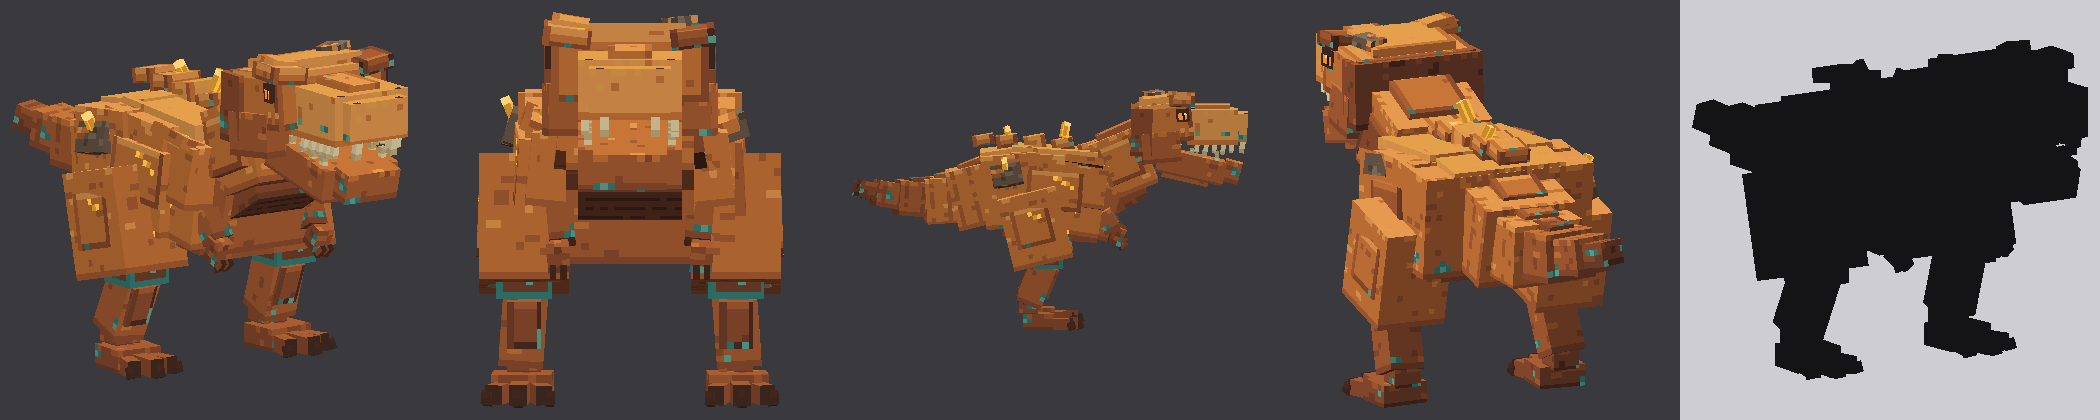
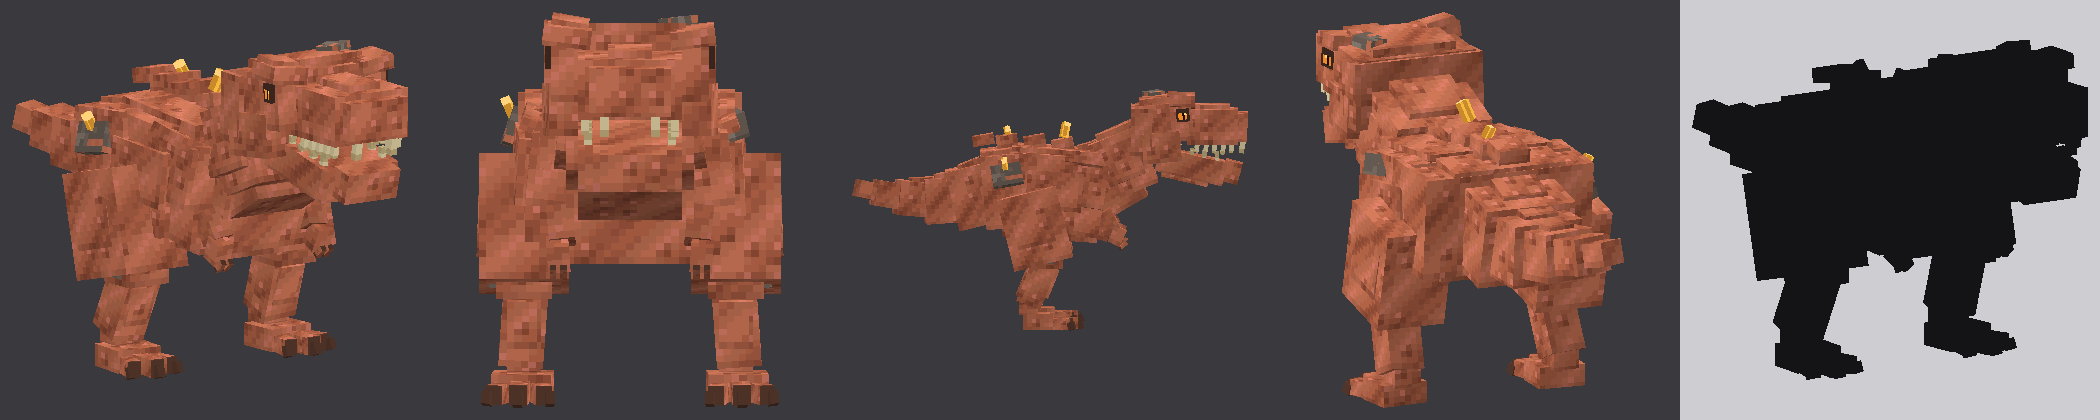
Copper T-Rex: texture from the vanilla copper block

Changed region(s): [[0.0, 0.031, 0.3714, 0.9595], [0.4024, 0.031, 0.7738, 0.9905]]

diff --git a/FluxDungeons/assets/monstres/trex_cuivre.py b/FluxDungeons/assets/monstres/trex_cuivre.py
@@ -3,14 +3,16 @@
 
 A real Tyrannosaurus whose anatomy is copper grown around a fossil, found deep in a mine: big skull of copper plates,
 long jaw with ivory teeth, thick neck, massive body leaning forward over two long and powerful hind legs, tiny arms,
-long tail that dips at its base then rises as it thins. Copper dominates (warm, light, aged, dark), turquoise patina
-stays secondary (joints, between plates, end of the tail, one side of the skull), a few rocks with copper ore grown
-into the body and a few small amber crystals on the back and shoulder (emissive, like the eyes).
+long tail that dips at its base then rises as it thins.
+Texture revised on 2026-11-10 at the owner's request: the copper is the vanilla Block of Copper (unoxidised), its own
+pixels tiled on every copper part, soft and low-contrast; no patina, no gold, no outlines, no painted reflections (the
+light is the game's face shading). Plates differ only by geometry and a slightly darker lower edge. Kept apart: a few
+grey-brown rocks, ivory teeth, dark claws, orange eyes and three tiny amber crystals (both emissive).
 
 Built like the two references (Colosse d'Abime, the rock turtle, and Loutre des Marees): a few dozen volumes of
-different sizes, overlapped and tilted for the silhouette; plates, patina, cracks and claws are painted (1 texel per
+different sizes, overlapped and tilted for the silhouette; plates and claws are painted (1 texel per
 unit, like a 16 x 16 block), never built from tiny cubes. Details on purpose asymmetric (bigger plate over the right
-eye, patina on the left of the skull, different mineral marks on each side of the snout); the anatomy stays symmetric.
+eye, rock on the left of the skull); the anatomy stays symmetric.
 
 Pose baked into the cubes, bones at the joints for a future animation; no animation here.
 SCALE sets the overall size at once (parts are drawn at their brief size, 16 units = 1 block).
@@ -37,193 +39,90 @@ def pal(*c):
     return [hx(x) for x in c]
 
 
-# --------------------------------------------------------------------------- brief palette (dark -> light)
-COPPER = pal("#4F2C21", "#713F2B", "#8C4C2E", "#A95D32", "#C87538", "#E69A50", "#E5A04B")
-OX = pal("#347D75", "#58A995")
-ROCK = pal("#3E322A", "#554438", "#6B5849", "#82705D")
-AMBER = pal("#C98A2A", "#F5B942", "#FFD47A")
+# --------------------------------------------------------------------------- vanilla Block of Copper
+# The copper IS the vanilla block (unoxidised Block of Copper, 16 x 16): its 8 colours and the inside of its texture
+# (14 x 14, without the light/dark border that would draw a grid of blocks), tiled at 1 texel per unit, so one pixel
+# of the T-Rex is one pixel of the block. Each face starts at a random offset: no two faces show the same pattern.
+CU = pal("#C87456", "#C26B4C", "#D67B5B", "#B26247", "#E3826C", "#9A5038", "#A75A40", "#904931")
+CU_TILE = (
+    "00110024222113", "04300242221433", "13502420211353", "10022200116631", "00222001165613", "02420011656133",
+    "24200116561130", "42001365611300", "20013366111002", "00133631110024", "01333311300242", "14363113002430",
+    "33531330022351", "65313300222011",
+)
+ROCK = pal("#5F544C", "#6E6259", "#7D7066", "#8C8075")          # moderate grey-brown stone
+AMBER = pal("#C98A2A", "#F5B942", "#FFD47A")                     # the three small crystals only
 TOOTH, TOOTH_SHADE = hx("#E5D4A6"), hx("#C4B07E")
-CLAW = hx("#38251D")
+CLAW = hx("#5A3A2E")
 EYE_RIM, IRIS, GLINT, PUPIL = hx("#38251D"), hx("#F18A24"), hx("#FFD47A"), hx("#170F0A")
 
-# light from above, a little from the front: tone shift per face
-SIDE = {"up": 1, "north": 0, "east": 0, "west": 0, "south": -1, "down": -2}
+
+def shade(c, k):
+    return tuple(max(0, min(255, round(v * k))) for v in c)
 
 
-def speckle(px, r, n, colour):
-    h, w = len(px), len(px[0])
-    for _ in range(n):
-        x, y = r.randrange(w), r.randrange(h)
-        px[y][x] = colour
-        if r.random() < 0.35 and x + 1 < w:          # two-pixel marks read better from afar
-            px[y][x + 1] = colour
+def cu(w, h, r, k=1.0):
+    """The vanilla copper surface, from a random offset of the tile, uniformly darkened by k (never below 0.88:
+    a part in shadow stays copper)."""
+    ox, oy = r.randrange(14), r.randrange(14)
+    return [[shade(CU[int(CU_TILE[(y + oy) % 14][(x + ox) % 14])], k) for x in range(w)] for y in range(h)]
 
 
-def patina(px, r, n, rows=None):
-    """Small turquoise clusters, kept to the given rows (bottom edge by default: where water ran)."""
-    h, w = len(px), len(px[0])
-    rows = rows or range(max(0, h - 3), h)
-    rows = list(rows)
-    for _ in range(n):
-        x, y = r.randrange(w), r.choice(rows)
-        px[y][x] = OX[1]
-        for dx, dy in ((1, 0), (0, -1), (-1, 0)):
-            if 0 <= x + dx < w and 0 <= y + dy < h and r.random() < 0.45:
-                px[y + dy][x + dx] = OX[0]
-
-
-def crack(px, r):
-    """Thin amber crack between plates: a broken diagonal line of 3 to 5 pixels."""
-    h, w = len(px), len(px[0])
-    if w < 6 or h < 5:
-        return
-    x, y = r.randrange(1, w - 4), r.randrange(1, h - 3)
-    for k in range(r.randrange(3, 6)):
-        if 0 <= x < w and 0 <= y < h:
-            px[y][x] = AMBER[1] if k % 2 == 0 else AMBER[0]
-        x += 1
-        y += r.choice((0, 1, 1))
-
-
-def ore(px, r, n):
-    """Copper ore spots in the rock, like the block: a light pixel next to a warm one."""
-    h, w = len(px), len(px[0])
-    for _ in range(n):
-        x, y = r.randrange(w), r.randrange(h)
-        px[y][x] = COPPER[5]
-        if x + 1 < w:
-            px[y][x + 1] = COPPER[4]
-        if y + 1 < h:
-            px[y + 1][x] = COPPER[3]
+def occlude(px, rows=1, k=0.92):
+    """Light ambient occlusion on the bottom rows of a side face (where it meets the part below)."""
+    h = len(px)
+    for y in range(max(0, h - rows), h):
+        px[y] = [shade(c, k) for c in px[y]]
 
 
 # --------------------------------------------------------------------------- painters
-def copper(base=4, ox=0, cracks=0):
+def copper(k=1.0):
     def f(w, h, r, face):
-        """Copper hide: flat tone, hammered darker marks, lighter on top, bottom row in shadow; `ox` patina
-        clusters along the bottom of the sides, `cracks` amber cracks on the sides."""
-        b = base + SIDE[face]
-        px = [[tone(COPPER, b)] * w for _ in range(h)]
-        speckle(px, r, max(1, w * h // 22), tone(COPPER, b - 1))
-        speckle(px, r, max(1, w * h // 45), tone(COPPER, b + 1))
+        """Copper hide: the vanilla block, faint occlusion at the bottom of the sides. The light (top lighter,
+        bottom darker) is the game's face shading, not painted."""
+        px = cu(w, h, r, k * (0.96 if face == "down" else 1.0))
         if face not in ("up", "down") and h >= 4:
-            px[h - 1] = [tone(COPPER, b - 1)] * w
-            for x in range(w):
-                if r.random() < 0.3:
-                    px[0][x] = tone(COPPER, b + 1)       # top edge catching the light
-            if ox and r.random() < 0.6:
-                patina(px, r, ox * max(1, w // 14))
-            for _ in range(cracks):
-                crack(px, r)
+            occlude(px)
         return px
     return f
 
 
-def plate(base=4, ox=1, cracks=0, crystal=False):
+def plate(k=1.0):
     def f(w, h, r, face):
-        """Copper plate: darker one-pixel outline (it reads as a separate plate), light top row, patina in the
-        outline (between plates), sometimes an amber crack or an inlaid amber crystal."""
-        b = base + SIDE[face]
-        px = [[tone(COPPER, b)] * w for _ in range(h)]
-        speckle(px, r, max(1, w * h // 26), tone(COPPER, b - 1))
+        """Copper plate: the same block, its edge only suggested by a slightly darker bottom row and right column
+        (the gap under the plate), no black outline, no light border."""
+        px = cu(w, h, r, k)
         if w >= 3 and h >= 3:
-            for x in range(w):
-                px[0][x] = tone(COPPER, b + 1)
-                px[h - 1][x] = tone(COPPER, b - 2)
-            for y in range(h):
-                px[y][0] = tone(COPPER, b - 1)
-                px[y][w - 1] = tone(COPPER, b - 2)
-            edge = [(x, h - 1) for x in range(w)] + [(w - 1, y) for y in range(h // 2, h)]
-            for _ in range(ox * max(1, (w + h) // 14)):
-                x, y = r.choice(edge)
-                px[y][x] = OX[r.randrange(2)]
-        for _ in range(cracks):
-            crack(px, r)
-        if crystal and face == "up" and w >= 4 and h >= 4:
-            x, y = w // 2 - 1, h // 2 - 1
-            px[y][x], px[y][x + 1], px[y + 1][x], px[y + 1][x + 1] = AMBER[2], AMBER[1], AMBER[1], AMBER[0]
+            px[h - 1] = [shade(c, 0.9) for c in px[h - 1]]
+            for y in range(h - 1):
+                px[y][w - 1] = shade(px[y][w - 1], 0.93)
         return px
     return f
-
-
-def belly(w, h, r, face):
-    """Belly and throat: dark copper in horizontal bands (old fossil copper), a pixel of patina here and there."""
-    b = 2 + max(-1, SIDE[face])
-    px = [[tone(COPPER, b)] * w for _ in range(h)]
-    for y in range(1, h, 3):
-        px[y] = [tone(COPPER, b - 1) if r.random() < 0.75 else px[y][x] for x in range(w)]
-    if r.random() < 0.3:
-        speckle(px, r, 1, OX[0])
-    return px
-
-
-def skull(w, h, r, face):
-    """Skull: copper plates, asymmetric details: patina patch on the left side (west), copper ore marks on the
-    right side (east), one amber crack on top."""
-    px = plate(4, ox=1)(w, h, r, face)
-    if face == "west" and w >= 6:
-        patina(px, r, 5, rows=range(h // 3, h - 1))
-    elif face == "east" and w >= 6:
-        ore(px, r, 2)
-    elif face == "up":
-        crack(px, r)
-    return px
 
 
 def snout(w, h, r, face):
-    """Snout: lighter copper, nostrils painted dark on the front, different marks on each side."""
-    px = copper(5)(w, h, r, face)
+    """Snout: the copper block, two nostrils on top of the tip in the block's darkest colour."""
+    px = copper()(w, h, r, face)
     if face == "up" and w >= 6 and h >= 3:
-        for x in (1, w - 2):                               # nostrils on top of the snout tip (seen from the side
-            px[0][x] = COPPER[0]                           # and above, never as a second pair of eyes)
-    elif face == "east":
-        patina(px, r, 2)
-    elif face == "west" and w >= 4:
-        crack(px, r)
+        for x in (1, w - 2):
+            px[0][x] = CU[5]
     return px
 
 
 def rock(ore_spots=0):
     def f(w, h, r, face):
-        """Rock grown into the copper: warm brown and grey-brown, lighter pixels for the grain, copper ore spots."""
-        b = 2 + max(-1, min(1, SIDE[face]))
-        px = [[tone(ROCK, b)] * w for _ in range(h)]
-        speckle(px, r, max(1, w * h // 8), tone(ROCK, b + 1))
-        speckle(px, r, max(1, w * h // 14), tone(ROCK, b - 1))
-        ore(px, r, ore_spots)
-        return px
-    return f
-
-
-def joint(w, h, r, face):
-    """Mineral joint: dark copper with a turquoise ring (patina gathers in the joints)."""
-    px = [[COPPER[1]] * w for _ in range(h)]
-    if w >= 3 and h >= 3:
-        for x in range(w):
-            px[0][x] = px[h - 1][x] = OX[0]
-        for y in range(h):
-            px[y][0] = px[y][w - 1] = OX[0]
-        px[h // 2][w // 2] = OX[1]
-    return px
-
-
-def tail(base=4, ox=0):
-    def f(w, h, r, face):
-        """Tail: copper with darker bands across (segments of a fossil spine), patina growing toward the end."""
-        px = copper(base, ox=ox)(w, h, r, face)
-        b = base + SIDE[face]
-        if face in ("east", "west"):
-            for x in range(1, w, 4):
-                for y in range(h):
-                    if r.random() < 0.6:
-                        px[y][x] = tone(COPPER, b - 1)
-        elif face == "up":
-            for y in range(1, h, 4):
-                for x in range(w):
-                    if r.random() < 0.6:
-                        px[y][x] = tone(COPPER, b - 1)
-        elif face == "down" and ox:
-            patina(px, r, ox * 3, rows=range(h))
+        """Stone grown into the copper: moderate grey-brown in small groups, a few copper spots of the block."""
+        px = [[ROCK[1]] * w for _ in range(h)]
+        for _ in range(max(1, w * h // 6)):
+            x, y = r.randrange(w), r.randrange(h)
+            c = ROCK[r.choice((0, 2, 2, 3))]
+            for dx, dy in ((0, 0), (1, 0), (0, 1)):
+                if x + dx < w and y + dy < h and r.random() < 0.7:
+                    px[y + dy][x + dx] = c
+        for _ in range(ore_spots):
+            x, y = r.randrange(w), r.randrange(h)
+            px[y][x] = CU[0]
+            if x + 1 < w:
+                px[y][x + 1] = CU[2]
         return px
     return f
 
@@ -241,13 +140,12 @@ def fang_up(w, h, r, face):
 
 
 def claw(w, h, r, face):
-    return [[CLAW if (x + y) % 3 else COPPER[0] for x in range(w)] for y in range(h)]
+    return [[CLAW] * w for _ in range(h)]
 
 
 def toe(w, h, r, face):
-    """Toe: dark copper, lighter top, claw colour at the front tip (u = 0 is the front on the sides)."""
-    b = {"up": 3, "down": 1}.get(face, 2)
-    px = [[COPPER[b]] * w for _ in range(h)]
+    """Toe (density 2): copper, claw colour at the front tip (u = 0 is the front on the sides)."""
+    px = cu(w, h, r, 0.96)
     if face == "north":
         px = [[CLAW] * w for _ in range(h)]
     elif face == "up":
@@ -263,21 +161,18 @@ def eye(w, h, r, face):
     if face not in ("east", "west"):
         return [[EYE_RIM] * w for _ in range(h)]
     px = [[EYE_RIM] * w for _ in range(h)]
-    for y in range(1, h - 1):
+    for y in range(2, h - 1):
         for x in range(1, w - 1):
             px[y][x] = IRIS
     c = w // 2
-    for y in range(1, h - 1):
+    for y in range(2, h - 1):
         px[y][c] = PUPIL
-    px[1][c + 1 if face == "east" else c - 1] = GLINT
-    px[1] = [EYE_RIM] * w if h >= 6 else px[1]             # heavy upper lid under the brow
-    if h >= 6:
-        px[2][c + 1 if face == "east" else c - 1] = GLINT
+    px[2][c + 1 if face == "east" else c - 1] = GLINT
     return px
 
 
 def crystal(w, h, r, face):
-    """Amber crystal (emissive): light core, darker edges."""
+    """Amber crystal (emissive, three small ones in all): light core, darker edge."""
     px = [[AMBER[1]] * w for _ in range(h)]
     for y in range(h):
         px[y][0] = AMBER[0]
@@ -286,14 +181,14 @@ def crystal(w, h, r, face):
     return px
 
 
+# One material, the vanilla block; the names only keep the role of each part (a whisper of shade, at most 6 %).
 MATS = {
-    "copper": copper(4), "copper_light": copper(5), "copper_aged": copper(3, ox=1), "copper_dark": copper(2, ox=1),
-    "flank": copper(4, ox=1, cracks=1), "hips": copper(4, ox=1),
-    "plate": plate(4), "plate_light": plate(5, ox=0), "plate_aged": plate(3, ox=2), "plate_ox": plate(2, ox=3),
-    "plate_crack": plate(4, ox=1, cracks=1), "plate_crystal": plate(4, ox=1, crystal=True),
-    "belly": belly, "skull": skull, "snout": snout, "rock": rock(0), "rock_ore": rock(2), "joint": joint,
-    "tail": tail(4), "tail_mid": tail(3, ox=1), "tail_end": tail(2, ox=2),
-    "tooth": tooth, "fang_up": fang_up, "claw": claw, "toe": (toe, 2),
+    "copper": copper(), "copper_light": copper(), "copper_aged": copper(0.97), "copper_dark": copper(0.95),
+    "flank": copper(), "hips": copper(), "belly": copper(0.95), "skull": plate(), "snout": snout,
+    "plate": plate(), "plate_light": plate(), "plate_aged": plate(0.97), "plate_ox": plate(0.97),
+    "plate_crack": plate(), "plate_crystal": plate(), "joint": copper(0.94),
+    "tail": copper(), "tail_mid": copper(), "tail_end": copper(0.97),
+    "rock": rock(0), "rock_ore": rock(2), "tooth": tooth, "fang_up": fang_up, "claw": claw, "toe": (toe, 2),
 }
 GLOW = {"eye": (eye, 2), "crystal": crystal}
 GLOW_COLOURS = {EYE_RIM, IRIS, GLINT, PUPIL, *AMBER}
